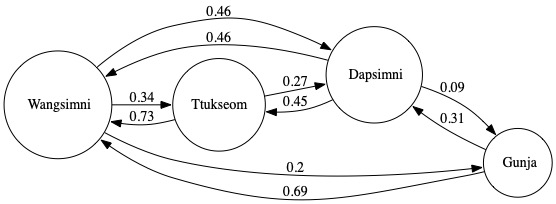
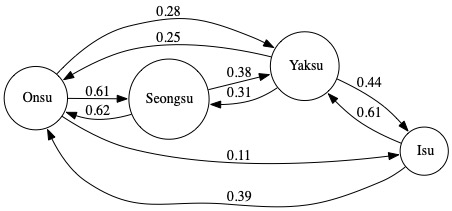
chore: change city name

diff --git a/streamlitmc.py b/streamlitmc.py
@@ -44,7 +44,7 @@ if __name__ == "__main__":
     The UAV movement is determined by the Markov Chain using random transition matrix.
     
     ## Add Region List
-    Example: Ttukseom, Gunja, Wangsimni, Dapsimni
+    Example: Seongsu, Onsu, Yaksu, Isu
     '''
     
     obj = StreamlitMC()
